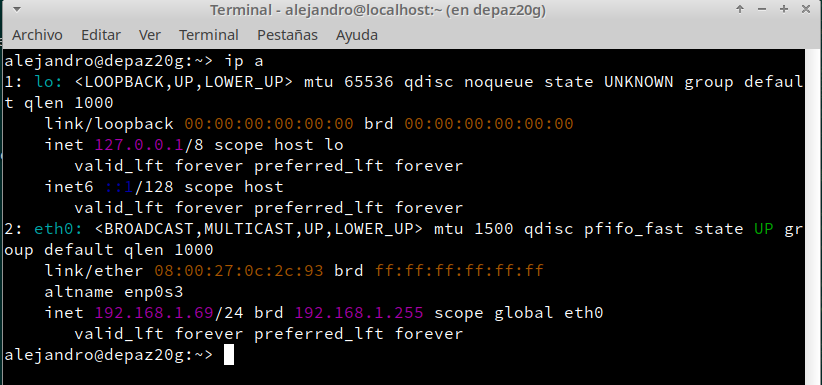
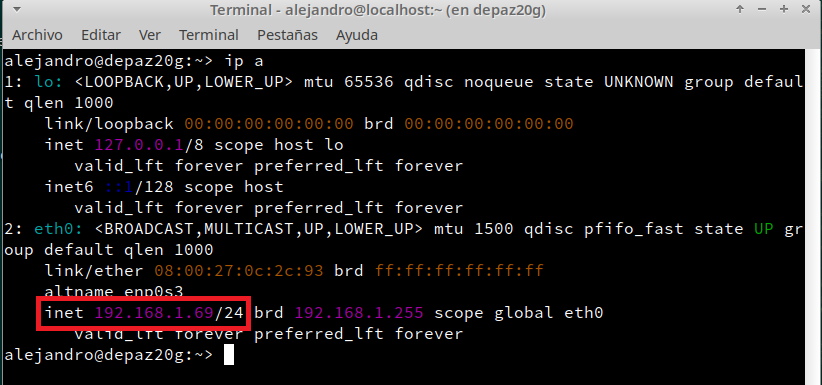
[U]

Changed region(s): [[0.0304, 0.7481, 0.3041, 0.8727]]

diff --git a/tema1/vnc/README.md b/tema1/vnc/README.md
@@ -13,7 +13,7 @@ Vamos a montar un entorno como el siguiente:
 |  3 | OpenSUSE | 192.168.1.69 | Slave VNC  | Instalar servidor VNC |
 |  4 | OpenSUSE | 192.168.1.71 | Master VNC | Instalar cliente VNC  |
 
-**NOTA: (Las IPs que he utilizado han sido estas ya que he realizado la práctica en casa. Por eso y porque he utilizado máquinas reales, me he saltado las configuraciones de las máquinas Windows.)**
+**NOTA: (Las IPs que he utilizado han sido estas ya que he realizado la práctica en casa. Por eso y porque he utilizado máquinas reales, me he saltado las configuraciones de las máquinas Windows y las configuraciones de red de las máquinas OpenSuse)**
 
 # 1. Windows: Slave VNC
 
@@ -40,93 +40,142 @@ que los servicios son visibles desde fuera de la máquina VNC-SERVER. Vemos que 
 
 # 2 Windows: Master VNC
 
-* En el cliente Windows instalamos `TightVNC -> Custom -> Viewer`.
+* En el cliente Windows seguimos los pasos anteriores pero esta vez instalamos `TightVNC -> Custom -> Viewer`.
+
 * Ejecutamos `TightVNC Viewer`, el cliente VNC e introducimos la IP de la máquina que queremos visualizar que, en este caso, es 192.168.1.49
 
 ![](img/9.png)
 
+* Vemos que podemos visualizar y manipular la máquina server:
 
 ![](img/10.png)
 
 ## 2.1 Comprobaciones finales
 
-Para verificar que se han establecido las conexiones remotas:
-* Conectar desde Window Master hacia el Windows Slave.
-* Ir al servidor VNC y usar el comando `netstat -n` para ver las conexiones VNC con el cliente.
+* Para verificar que se han establecido las conexiones remotas vamos al servidor VNC y utilizamos el comando `netstat -n` para ver las conexiones VNC con el cliente. Vemos que las IPs coinciden y la conexión está en estado ESTABLISHED
 
----
+![](img/11.png)
+
 
 # 3. OpenSUSE: Slave VNC
 
-* Configurar las máquinas virtuales según este [documento](../../global/configuracion/).
-* Ir a `Yast -> VNC`
-    * Permitir conexión remota. Esto configura el servicio `xinet`.
-    * Abrir puertos VNC en el cortafuegos.
+* Establecemos la configuración inicial editando los ficheros `/etc/hosts` y `/etc/hostname` (He saltado la configuración de red y la he dejado en DHCP ya que estoy usando la red de casa):
+
+![](img/13.png)
+
+![](img/19.png)
+
+* Vamos a `Yast -> VNC`
+    * Permitimos conexión remota, que configura el servicio `xinet`.
+    * Abrimos los puertos VNC en el cortafuegos.
+
+![](img/14.png)
+
 * Ir a `Yast -> Cortafuegos`
-    * Revisar la configuración del cortafuegos.
-    * Debe estar permitido las conexiones a `vnc-server`.
+    * Revisamos la configuración del cortafuegos.
+    * Vemos que están permitidas las conexiones a VNC.
 
-> NOTA: Podemos parar completamente el cortafuegos usando el comando `systemctl stop firewalld`.
-Pero lo recomendable es tener el cortafuegos en ejecución y abrir solamente los puertos que vayamos a necesitar.
+![](img/15.png)
 
-* Con nuestro usuario normal
-    * Ejecutar `vncserver` en el servidor para iniciar el servicio VNC.
-        * Otra opción `vncserver -interfaz [address]`.
+* Con el usuario `alejandro`:
+    * Ejecutamos `vncserver` en el servidor para iniciar el servicio VNC.
     * Ponemos claves para las conexiones VNC a nuestro escritorio.
-    * Al final se nos muestra el número de nuestro escritorio remoto.
-    Apuntar este número porque lo usaremos más adelante.
-* `vdir /home/nombrealumno/.vnc`, vemos que se nos han creado unos ficheros de configuración VNC asociados a nuestro usuario.
-* Ejecutar `ps -ef|grep vnc` para comprobar que los servicios relacionados con vnc están en ejecución.
-* Ejecutar `lsof -i -nP` para comprobar que están los servicios en los puertos VNC (580X y 590X).
+    * Al final se nos muestra el número de nuestro escritorio remoto. Lo utilizaremos más adelante para realizar la conexión.
 
-> NOTA: En OpenSUSE GNU/Linux el comando `netstat -ntap` está obsoleto. Pero si aún insistimos en usarlo... tendremos que instalar el paquete `net-tools-deprecated`. Lo recomendado es usar el comando `lsof`.
+![](img/16.png)
+
+* `vdir /home/alejandro/.vnc`, vemos que se nos han creado unos ficheros de configuración VNC asociados a nuestro usuario.
+
+![](img/17.png)
+
+* Ejecutamos `ps -ef|grep vnc` para comprobar que los servicios relacionados con vnc están en ejecución.
+* Ejecutamos `lsof -i -nP` para comprobar que están los servicios en los puertos VNC (5802 y 5902).
+
+![](img/18.png)
+
 
 ## 3.1 Ir a una máquina GNU/Linux
 
-* Ejecutar `nmap -Pn IP-VNC-SERVER`, desde una máquina GNU/Linux para comprobar que los servicios son visibles desde fuera de la máquina VNC-SERVER. Deben verse los puertos VNC (5801, 5901, etc).
+* Ejecutamos `nmap -Pn 192.168.1.69`, desde una máquina GNU/Linux para comprobar que los servicios son visibles desde fuera de la máquina VNC-SERVER. Deben verse los puertos VNC (5802, 5902, etc).
+
+![](img/20.png)
 
 ---
 
 # 4. OpenSUSE: Master VNC
+* Realizamos la configuración inicial al igual que en la máquina anterior. El nombre de esta será `depaz20g2` y la configuración de red:
 
-* `vncviewer` es un cliente VNC que viene con OpenSUSE.
-* En la conexión remota, hay que especificar `IP:5901`, `IP:5902`, etc.
-(Usar el número del escritorio remoto obtenido anteriormente).
-* Hay varias formas de usar vncviewer:
+![](img/28.png)
+
+* En OpenSuse `vncviewer` viene instalado por defecto, a diferencia de Windows.
+* En la conexión remota, tenemos que especificar el puerto por el que realizaremos la conexión. En nuestro caso será el puerto 5901.
+* Hay varias formas de usar vncviewer, nosotros usaremos la primera:
     * `vncviewer IP-vnc-server:590N`
     * `vncviewer IP-vnc-server:N`
     * `vncviewer IP-vnc-server::590N`
 
+![](img/22.png)
 
 ## 4.1 Comprobaciones finales
 
-Comprobaciones para verificar que se han establecido las conexiones remotas:
-* Conectar desde GNU/Linix Master hacia GNU/Linux Slave.
-    * Si tenemos problemas, cerrar la sesión en la máquina Slave,
-    antes de iniciar la sesión desde la máquina Master.
-* Ejecutar como superusuario `lsof -i -nP` en el servidor para comprobar las conexiones VNC.
-* Ejecutar `vncserver -list` en el servidor.
+Una vez conectados a la máquina servidor, ejecutamos lo siguiente desde la misma:
+
+* `lsof -i -nP` para comprobar las conexiones VNC.
+
+![](img/23.png)
+
+* `vncserver -list` para ver la lista de sesiones abiertas.
+
+![](img/24.png)
 
 ---
 
 # 5. Comprobaciones con SSOO cruzados
 
-* Conectar el cliente GNU/Linux con el Servidor VNC Windows.
-Usaremos el comando `vncviewer IP-vnc-server` sin especificar puerto alguno.
-* Ejecutar `netstat -n` en el servidor Windows.
-* Conectar el cliente Windows con el servidor VNC GNU/Linux.
-* Ejecutar en el servidor GNU/Linux `lsof -i -nP`.
+A continuación, vamos a comprobar la conexión entre los SSOO de forma cruzada, es decir, de OpenSuse a Windows y de Windows a OpenSuse:
+
+* Conectamos el cliente GNU/Linux con el Servidor VNC Windows.
+Usaremos el comando `vncviewer 192.168.1.49` sin especificar puerto alguno.
+
+![](img/25.png)
+
+* Introducimos la contraseña y estaremos dentro de la máquina Windows:
+
+![](img/26.png)
+
+* Ejecutamos `netstat -n` en el servidor Windows para comprobar que, efectivamente, se ha realizado la conexión y que las IPs están correctas. Podemos ver además que la conexión realizada anteriormente entre las máquinas Windows aparece como TIME_WAIT (ha finalizado):
+
+![](img/27.png)
+
+* Conectamos el cliente Windows con el servidor VNC GNU/Linux. En este caso, tendremos que especificar el puerto.
+
+![](img/34.png)
+
+* Ejecutarmos en el servidor GNU/Linux `lsof -i -nP` para comprobar que se ha realizado la conexión (Cabe destacar que al realizar este paso yo ya había realizado el siguiente punto (punto 6) donde activamos el control de la pantalla local):
+
+![](img/35.png)
 
 ---
 
 # 6. DISPLAY 0 en GNU/Linux
 
-> [Enlace de interés](https://wiki.archlinux.org/index.php/TigerVNC_)
-
 Cuando queremos ejecutar VNC en GNU/Linux para controlar directamente la pantalla local usaremos el comando `x0vncserver`.
 * Vamos a usar las 2 MV GNU/Linux.
-* Ir al servidor.
-* `x0vncserver -display :0 -passwordfile /home/nombre-alumno/.vnc/passwd`. Para más información, véase `man x0vncserver`
-* Ir al cliente. Usar nmap para comprobar que el puerto 5900 del servidor está abierto.
-* Probar a conectarnos con el servidor (`vncviewer IP-VNC-SERVER:5900`).
-* `lsof -i -nP`.
+* Vamos al servidor y ejectuamos `x0vncserver -display :0 -passwordfile /home/nombre-alumno/.vnc/passwd`. Este comando habilitará el despliegue de la pantalla para el VNC Master, y activará la solicitud la contraseña almacenada en `/home/nombre-alumno/.vnc/passwd`. Vemos además que está utilizando el puerto 5900.
+
+![](img/30.png)
+
+* Vamos al cliente y usamos nmap para comprobar que el puerto 5900 del servidor 
+está abierto.
+
+![](img/31.png)
+
+* Probamos a conectarnos con el servidor a través del puerto 5900(`vncviewer 192.168.1.69:5900`).
+
+![](img/32.png)
+
+
+* Ejecutamos `lsof -i -nP` en el server.
+
+![](img/33.png)
+
